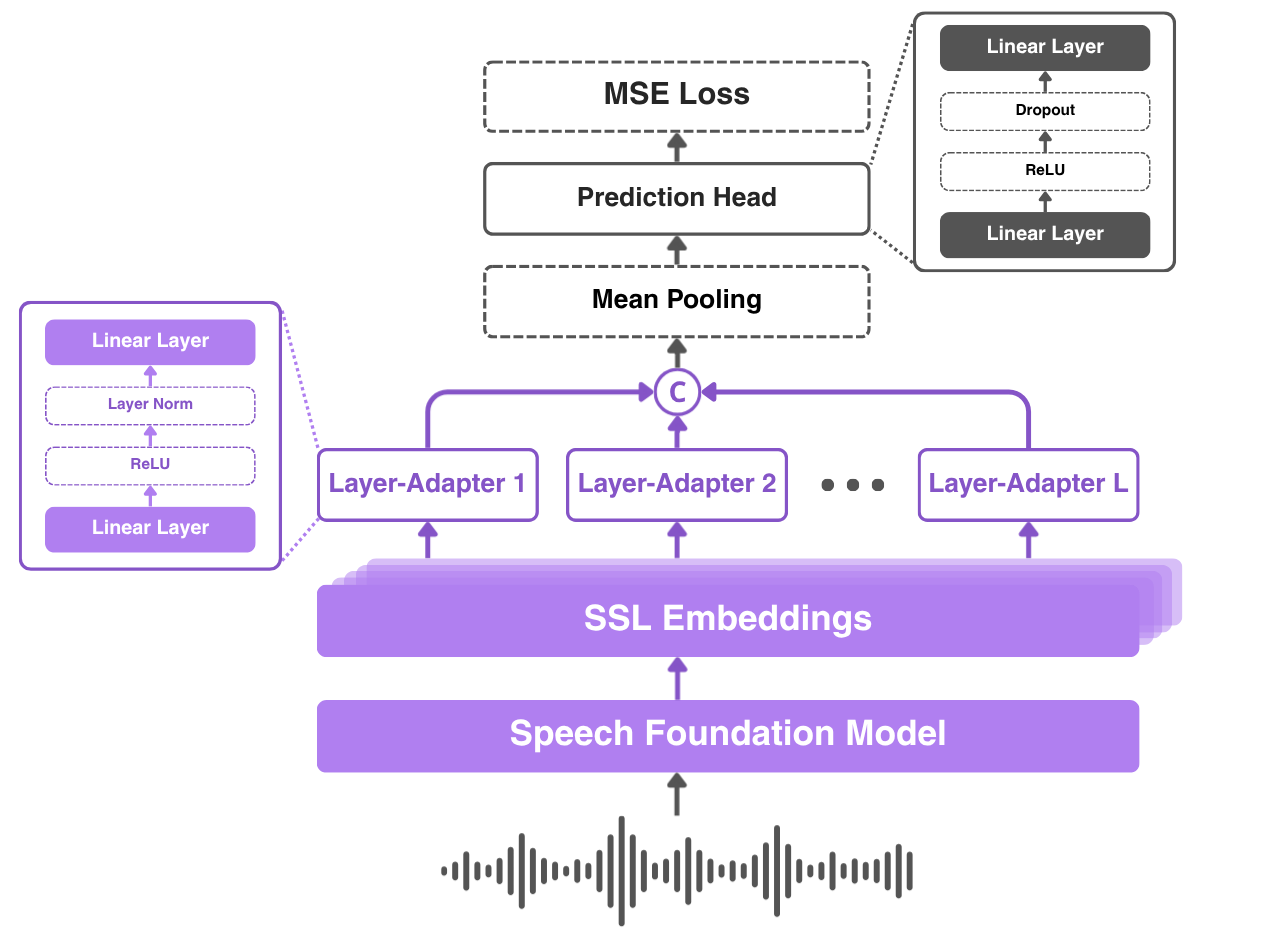
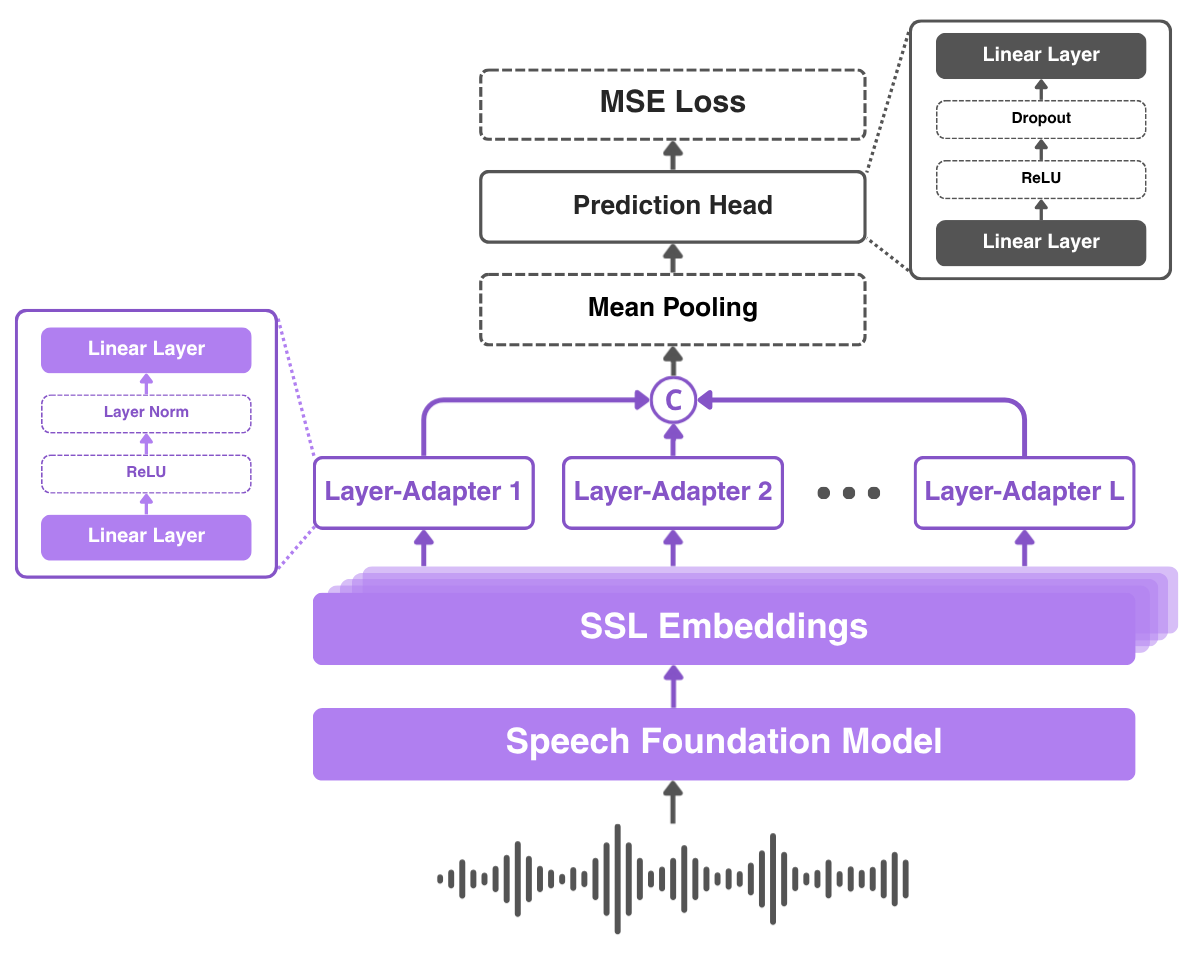
README update

Changed region(s): [[0.0, 0.0, 0.9834, 0.8684], [0.338, 0.8684, 0.7683, 0.9925]]

diff --git a/README.md b/README.md
@@ -1,5 +1,8 @@
 # CAL-MOS Bridging Layers with Adapters for Robust MOS Prediction Across Speech Foundation Models
 
+[![arXiv](https://img.shields.io/badge/arXiv-2609.14956-b31b1b.svg)](https://arxiv.org/abs/2609.14956)
+[![ISCA Archive](https://img.shields.io/badge/ISCA%20Archive-Interspeech%202026-1a73e8.svg)](https://www.isca-archive.org/interspeech_2026/ferreira26_interspeech.html)
+
 Official repository for the paper: **CAL-MOS Bridging Layers with Adapters for Robust MOS Prediction Across Speech Foundation Models**, accepted at Interspeech 2026.
 
 ## Overview
